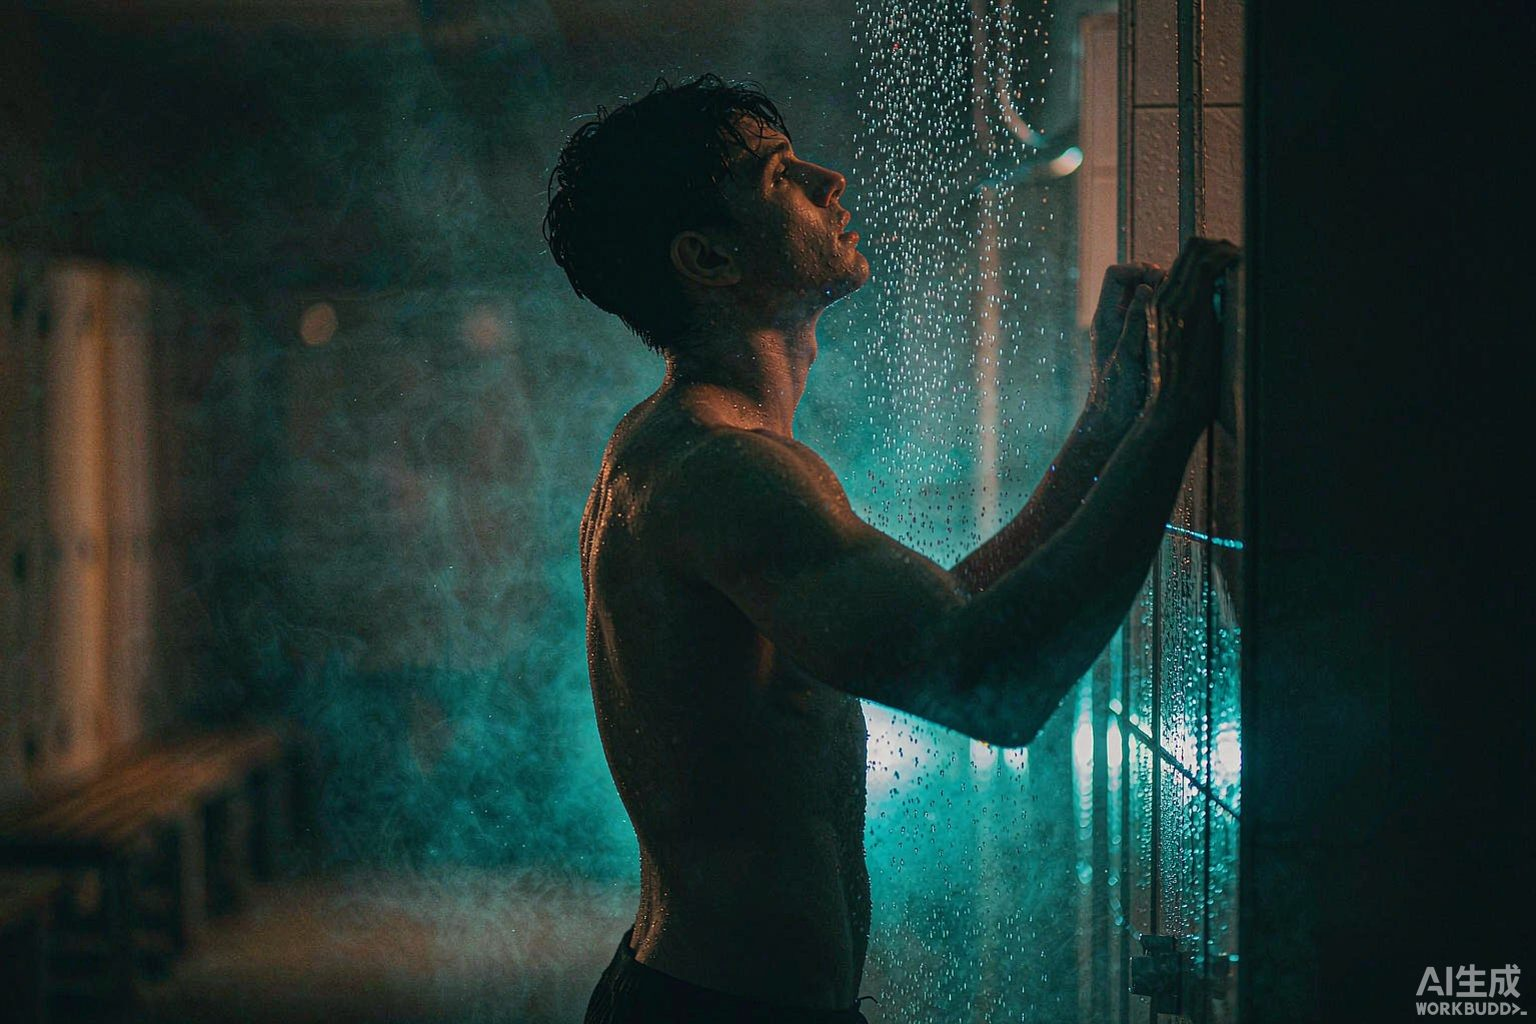
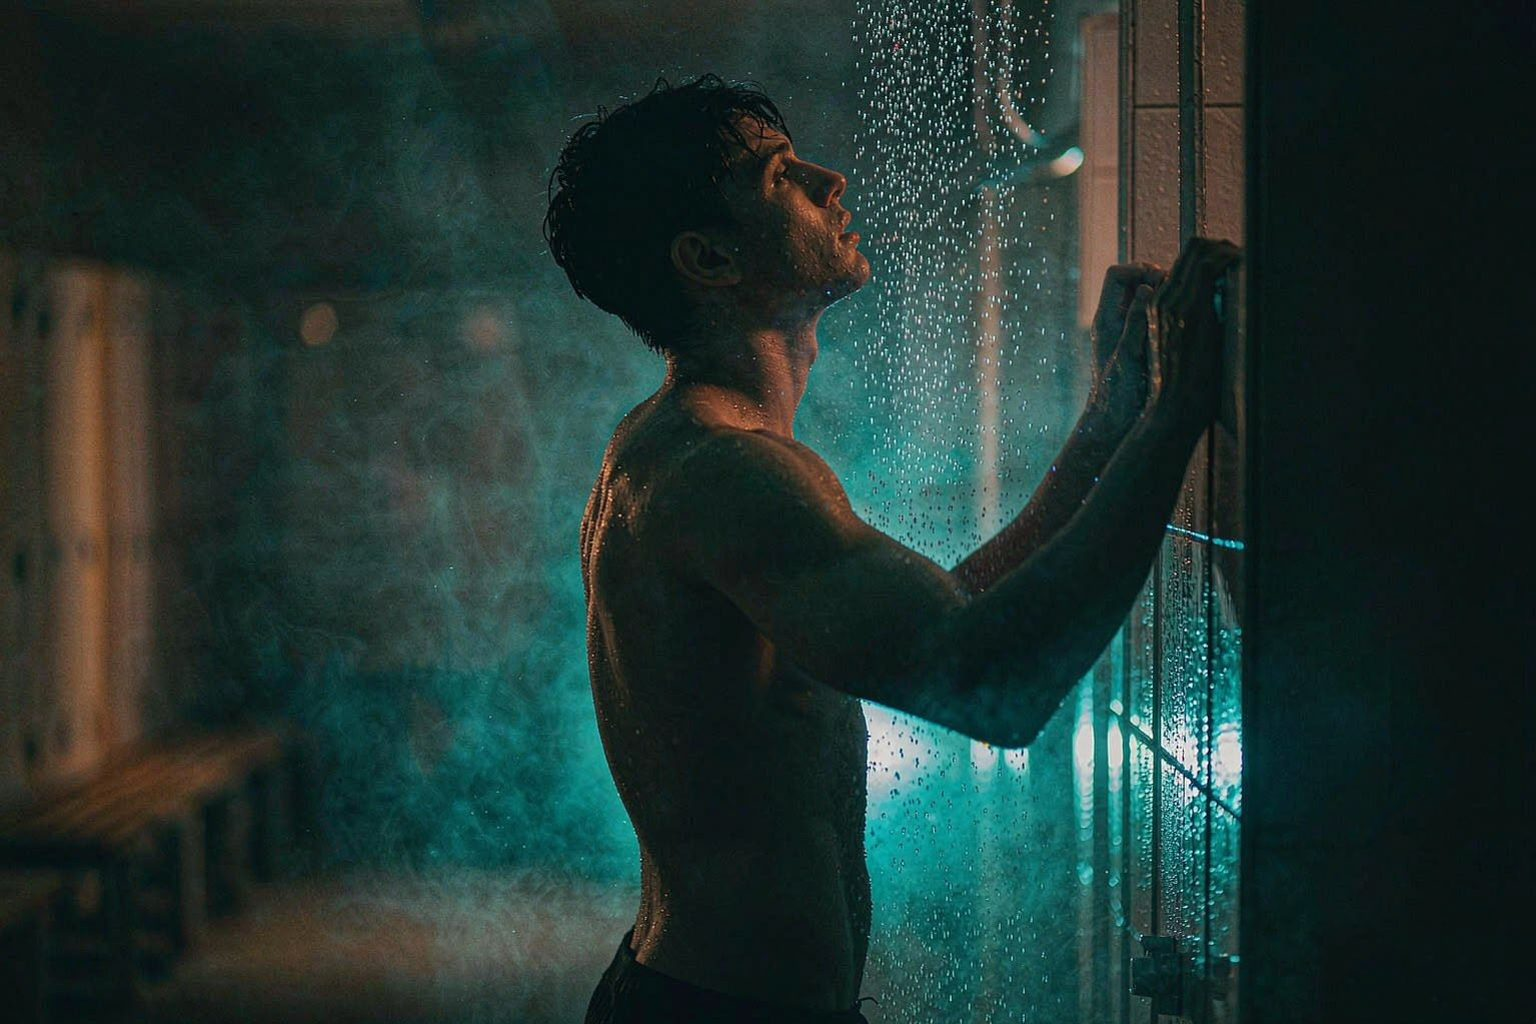
fix: 去除图片 AI生成 水印 + 清理站内 AI 制作表述
- hero/teaser 经过去水印处理，母版存档 hero-src.jpg / teaser-src.jpg
- 全部衍生图（hero/teaser webp+jpg、og.jpg、图标）从无水印母版重新生成
- 四语图注移除'AI 生成/立绘测试阶段'表述；清掉 en/ko og:description 残留的 AI pipeline
- optimize_images.py 改为读取新母版，直接输出 og.jpg（删除 697KB 的 og.png）

diff --git a/assets/css/style.css b/assets/css/style.css
@@ -66,20 +66,34 @@ img { display: block; max-width: 100%; }
 }
 .nav-toggle span { width: 24px; height: 2px; background: var(--text); transition: transform .3s, opacity .3s; }
 
-/* ---------- language switch ---------- */
-.lang-switch {
-  display: flex; align-items: center; gap: 2px;
+/* ---------- language menu（中文主场：地球图标 + 下拉） ---------- */
+.lang-menu-wrap { position: relative; }
+.lang-toggle {
+  display: inline-flex; align-items: center; gap: .45em;
   border: 1px solid var(--line); border-radius: 999px;
-  padding: 3px; background: rgba(27, 24, 19, .55);
-}
-.lang-btn {
+  background: rgba(27, 24, 19, .55); color: var(--muted);
   font-family: var(--font-body); font-size: .72rem; font-weight: 700;
-  letter-spacing: .04em; color: var(--muted);
-  padding: .34em .72em; border-radius: 999px;
-  transition: color .2s, background .2s;
+  letter-spacing: .04em; padding: .38em .8em; cursor: pointer;
+  transition: color .2s, border-color .2s;
 }
-.lang-btn:hover { color: var(--text); }
-.lang-btn.is-active { background: var(--coral); color: var(--coral-ink); }
+.lang-toggle:hover { color: var(--text); border-color: var(--coral-deep); }
+.lang-toggle svg { flex-shrink: 0; }
+.lang-menu {
+  position: absolute; top: calc(100% + .6rem); right: 0; min-width: 10rem;
+  background: rgba(20, 18, 15, .97); backdrop-filter: blur(14px);
+  border: 1px solid var(--line); border-radius: 14px; padding: .4rem;
+  display: grid; gap: 2px; z-index: 60;
+  box-shadow: 0 18px 40px rgba(0, 0, 0, .45);
+}
+.lang-menu[hidden] { display: none; }
+.lang-opt {
+  display: flex; align-items: center; justify-content: space-between; gap: 1em;
+  font-size: .85rem; color: var(--muted); padding: .55em .8em; border-radius: 9px;
+  transition: background .15s, color .15s;
+}
+.lang-opt:hover { background: var(--surface-2); color: var(--text); }
+.lang-opt.is-active { color: var(--coral); font-weight: 700; }
+.lang-opt .lang-opt-tag { font-size: .66rem; letter-spacing: .08em; opacity: .75; }
 
 /* ---------- buttons ---------- */
 .btn {
@@ -372,7 +386,7 @@ img { display: block; max-width: 100%; }
 }
 @media (max-width: 860px) {
   .nav-toggle { display: flex; }
-  .lang-btn { font-size: .66rem; padding: .3em .55em; }
+  .lang-toggle { font-size: .68rem; padding: .34em .65em; }
   .nav-links {
     position: fixed; inset: 72px 0 auto 0;
     flex-direction: column; align-items: stretch; gap: 0;

diff --git a/ko/index.html b/ko/index.html
@@ -6,7 +6,7 @@
 <title>SportsBoy.gay — 땀, 근육, 프라이드. 당당하게.</title>
 <meta name="description" content="게이를 위한 스포츠맨 문화 총본부: 스포츠맨 도감, 직남 관찰, 비주얼 노벨, AI 동반. 첫 비주얼 노벨 『스포츠맨』 제작 중.">
 <meta property="og:title" content="SportsBoy.gay — 땀, 근육, 프라이드. 당당하게.">
-<meta property="og:description" content="게이를 위한 스포츠맨 문화 총본부. 첫 비주얼 노벨 『스포츠맨』 제작 중, 전 AI 파이프라인.">
+<meta property="og:description" content="게이를 위한 스포츠맨 문화 총본부. 첫 비주얼 노벨 『스포츠맨』 제작 중.">
 <meta property="og:image" content="https://www.sportsboy.gay/assets/img/og.jpg">
 <meta property="og:type" content="website">
 <meta property="og:url" content="https://www.sportsboy.gay/ko">
@@ -140,7 +140,7 @@
         <source srcset="/assets/img/teaser.webp" type="image/webp">
         <img src="/assets/img/teaser.jpg" alt="『스포츠맨』 비주얼 노벨 캐릭터 예고: 수영부 스포츠맨" width="900" height="900" loading="lazy" decoding="async">
       </picture>
-      <p class="work-caption">캐릭터 예고 · 수영 루트 CG (AI 생성, 스프라이트 테스트 단계)</p>
+      <p class="work-caption">캐릭터 예고 · 수영 루트 CG</p>
     </div>
     <div class="work-info reveal">
       <p class="section-index">02 / 첫 작품</p>

diff --git a/en/index.html b/en/index.html
@@ -6,7 +6,7 @@
 <title>SportsBoy.gay — Sweat. Muscle. Pride. Out loud.</title>
 <meta name="description" content="The global HQ of jock culture for gay guys: almanacs, the gaze, visual novels and AI companions. First visual novel Jocks in production.">
 <meta property="og:title" content="SportsBoy.gay — Sweat. Muscle. Pride. Out loud.">
-<meta property="og:description" content="The global HQ of jock culture. First visual novel Jocks in production, fully AI pipeline.">
+<meta property="og:description" content="The global HQ of jock culture. First visual novel Jocks in production.">
 <meta property="og:image" content="https://www.sportsboy.gay/assets/img/og.jpg">
 <meta property="og:type" content="website">
 <meta property="og:url" content="https://www.sportsboy.gay/en">
@@ -140,7 +140,7 @@
         <source srcset="/assets/img/teaser.webp" type="image/webp">
         <img src="/assets/img/teaser.jpg" alt="Jocks visual novel character teaser: swim team jock" width="900" height="900" loading="lazy" decoding="async">
       </picture>
-      <p class="work-caption">Character teaser · swim-route CG (AI-generated, sprite testing phase)</p>
+      <p class="work-caption">Character teaser · swim-route CG</p>
     </div>
     <div class="work-info reveal">
       <p class="section-index">02 / The Work</p>

diff --git a/ja/index.html b/ja/index.html
@@ -140,7 +140,7 @@
         <source srcset="/assets/img/teaser.webp" type="image/webp">
         <img src="/assets/img/teaser.jpg" alt="『体育生』ビジュアルノベル キャラクター予告：水泳部体育生" width="900" height="900" loading="lazy" decoding="async">
       </picture>
-      <p class="work-caption">キャラクター予告 · 水泳線CG（AI生成、立ち絵テスト段階）</p>
+      <p class="work-caption">キャラクター予告 · 水泳線CG</p>
     </div>
     <div class="work-info reveal">
       <p class="section-index">02 / 第一作</p>

diff --git a/index.html b/index.html
@@ -140,7 +140,7 @@
         <source srcset="/assets/img/teaser.webp" type="image/webp">
         <img src="/assets/img/teaser.jpg" alt="《体育生》视觉小说角色预告图：泳队体育生" width="900" height="900" loading="lazy" decoding="async">
       </picture>
-      <p class="work-caption">角色预告 · 泳队线 CG（AI 生成，立绘测试阶段）</p>
+      <p class="work-caption">角色预告 · 泳队线 CG</p>
     </div>
     <div class="work-info reveal">
       <p class="section-index">02 / 首部作品</p>

diff --git a/tools/optimize_images.py b/tools/optimize_images.py
@@ -1,8 +1,15 @@
-"""SportsBoy.gay 图片优化：WebP 转换 + OG 分享图 + 图标生成"""
-import os
-from PIL import Image, ImageDraw, ImageFont, ImageFilter
+"""SportsBoy.gay 图片优化：母版 -> WebP/JPG 衍生 + OG 分享图 + 图标
 
-IMG = os.path.normpath(os.path.join(os.path.dirname(os.path.abspath(__file__)), "..", "assets", "img"))
+母版（去水印后的原图，勿删）：
+  assets/img/hero-src.jpg   1536x1024  Hero 主视觉
+  assets/img/teaser-src.jpg 904x904    角色预告图（q95）
+运行：python tools/optimize_images.py
+"""
+import os
+from PIL import Image, ImageDraw, ImageFont
+
+ROOT = os.path.normpath(os.path.join(os.path.dirname(os.path.abspath(__file__)), ".."))
+IMG = os.path.join(ROOT, "assets", "img")
 os.makedirs(IMG, exist_ok=True)
 
 def font(path, size):
@@ -12,7 +19,6 @@ def font(path, size):
         return ImageFont.load_default()
 
 FONT_BLACK = "C:/Windows/Fonts/ariblk.ttf"
-FONT_BOLD = "C:/Windows/Fonts/arialbd.ttf"
 FONT_CJK_B = "C:/Windows/Fonts/msyhbd.ttc"
 FONT_CJK = "C:/Windows/Fonts/msyh.ttc"
 
@@ -32,32 +38,29 @@ def report(name, path):
     kb = os.path.getsize(path) / 1024
     print(f"{name}: {kb:.0f} KB -> {os.path.basename(path)}")
 
-# ---------- 1. hero.png -> webp + jpg ----------
-hero = Image.open(os.path.join(IMG, "hero.png")).convert("RGB")
-hero_w, hero_h = 1536, 1024
-hero = cover_crop(hero, hero_w, hero_h)
+# ---------- 1. hero-src.jpg -> webp + jpg ----------
+hero = cover_crop(Image.open(os.path.join(IMG, "hero-src.jpg")).convert("RGB"), 1536, 1024)
 hero.save(os.path.join(IMG, "hero.webp"), "WEBP", quality=80, method=6)
 hero.save(os.path.join(IMG, "hero.jpg"), "JPEG", quality=82, optimize=True, progressive=True)
 report("hero", os.path.join(IMG, "hero.webp"))
 report("hero", os.path.join(IMG, "hero.jpg"))
 
-# ---------- 2. teaser.png -> webp + jpg ----------
-teaser = Image.open(os.path.join(IMG, "teaser.png")).convert("RGB")
-teaser = cover_crop(teaser, 900, 900)
+# ---------- 2. teaser-src.jpg -> webp + jpg ----------
+teaser = cover_crop(Image.open(os.path.join(IMG, "teaser-src.jpg")).convert("RGB"), 900, 900)
 teaser.save(os.path.join(IMG, "teaser.webp"), "WEBP", quality=80, method=6)
 teaser.save(os.path.join(IMG, "teaser.jpg"), "JPEG", quality=82, optimize=True, progressive=True)
 report("teaser", os.path.join(IMG, "teaser.webp"))
 report("teaser", os.path.join(IMG, "teaser.jpg"))
 
-# ---------- 3. OG 分享图 1200x630 ----------
-og = cover_crop(Image.open(os.path.join(IMG, "hero.png")).convert("RGB"), 1200, 630)
+# ---------- 3. OG 分享图 1200x630（母版无水印，直接出 jpg） ----------
+og = cover_crop(Image.open(os.path.join(IMG, "hero-src.jpg")).convert("RGB"), 1200, 630)
 overlay = Image.new("RGBA", og.size, BG + (150,))
 og = Image.alpha_composite(og.convert("RGBA"), overlay)
 d = ImageDraw.Draw(og)
 f_brand = font(FONT_BLACK, 118)
 f_cn = font(FONT_CJK_B, 46)
 f_en = font(FONT_CJK, 30)
-f_small = font(FONT_BOLD, 26)
+f_small = font(FONT_CJK_B, 26)
 x = 72
 d.text((x, 150), "SPORTSBOY", font=f_brand, fill=TEXT)
 w_brand = d.textlength("SPORTSBOY", font=f_brand)
@@ -67,8 +70,8 @@ d.text((x, 372), "Sweat. Muscle. Pride.", font=f_en, fill=(255, 150, 110))
 d.text((x, 520), "sportsboy.gay", font=f_small, fill=(167, 159, 146))
 bar = Image.new("RGBA", (1200, 6), CORAL + (255,))
 og.alpha_composite(bar, (0, 0))
-og.convert("RGB").save(os.path.join(IMG, "og.png"), "PNG", optimize=True)
-report("og", os.path.join(IMG, "og.png"))
+og.convert("RGB").save(os.path.join(IMG, "og.jpg"), "JPEG", quality=85, optimize=True, progressive=True)
+report("og", os.path.join(IMG, "og.jpg"))
 
 # ---------- 4. 图标 512 + apple 180 ----------
 def make_icon(size, path):
@@ -86,11 +89,11 @@ def make_icon(size, path):
 make_icon(512, os.path.join(IMG, "icon-512.png"))
 make_icon(180, os.path.join(IMG, "apple-touch-icon.png"))
 
-# ---------- 5. 清理原始大 PNG ----------
-for f in ["hero.png", "teaser.png"]:
+# ---------- 5. 清理旧的 og.png（og.jpg 已替代） ----------
+for f in ["og.png"]:
     p = os.path.join(IMG, f)
     if os.path.exists(p):
         os.remove(p)
-        print(f"removed {f} (已由 webp/jpg 替代)")
+        print(f"removed {f} (og.jpg 已替代)")
 
 print("ALL DONE")

diff --git a/README.md b/README.md
@@ -35,7 +35,7 @@ git push -u origin main
 ## 上线前待办（替换占位链接）
 
 - [ ] `index.html` 等页中所有 `data-todo` 占位链接：爱发电主页、itch.io（demo 上线后）、TikTok / X 账号
-- [ ] 角色预告图 `assets/img/teaser.webp`：正式立绘出来后替换（当前为 AI 测试图）
+- [ ] 角色预告图 `assets/img/teaser.webp`：正式立绘出来后替换（母版 `teaser-src.jpg`，去水印已完成）
 - [ ] 爱发电三档赞助金额确认后更新首页文案
 
 ## 图片资产
